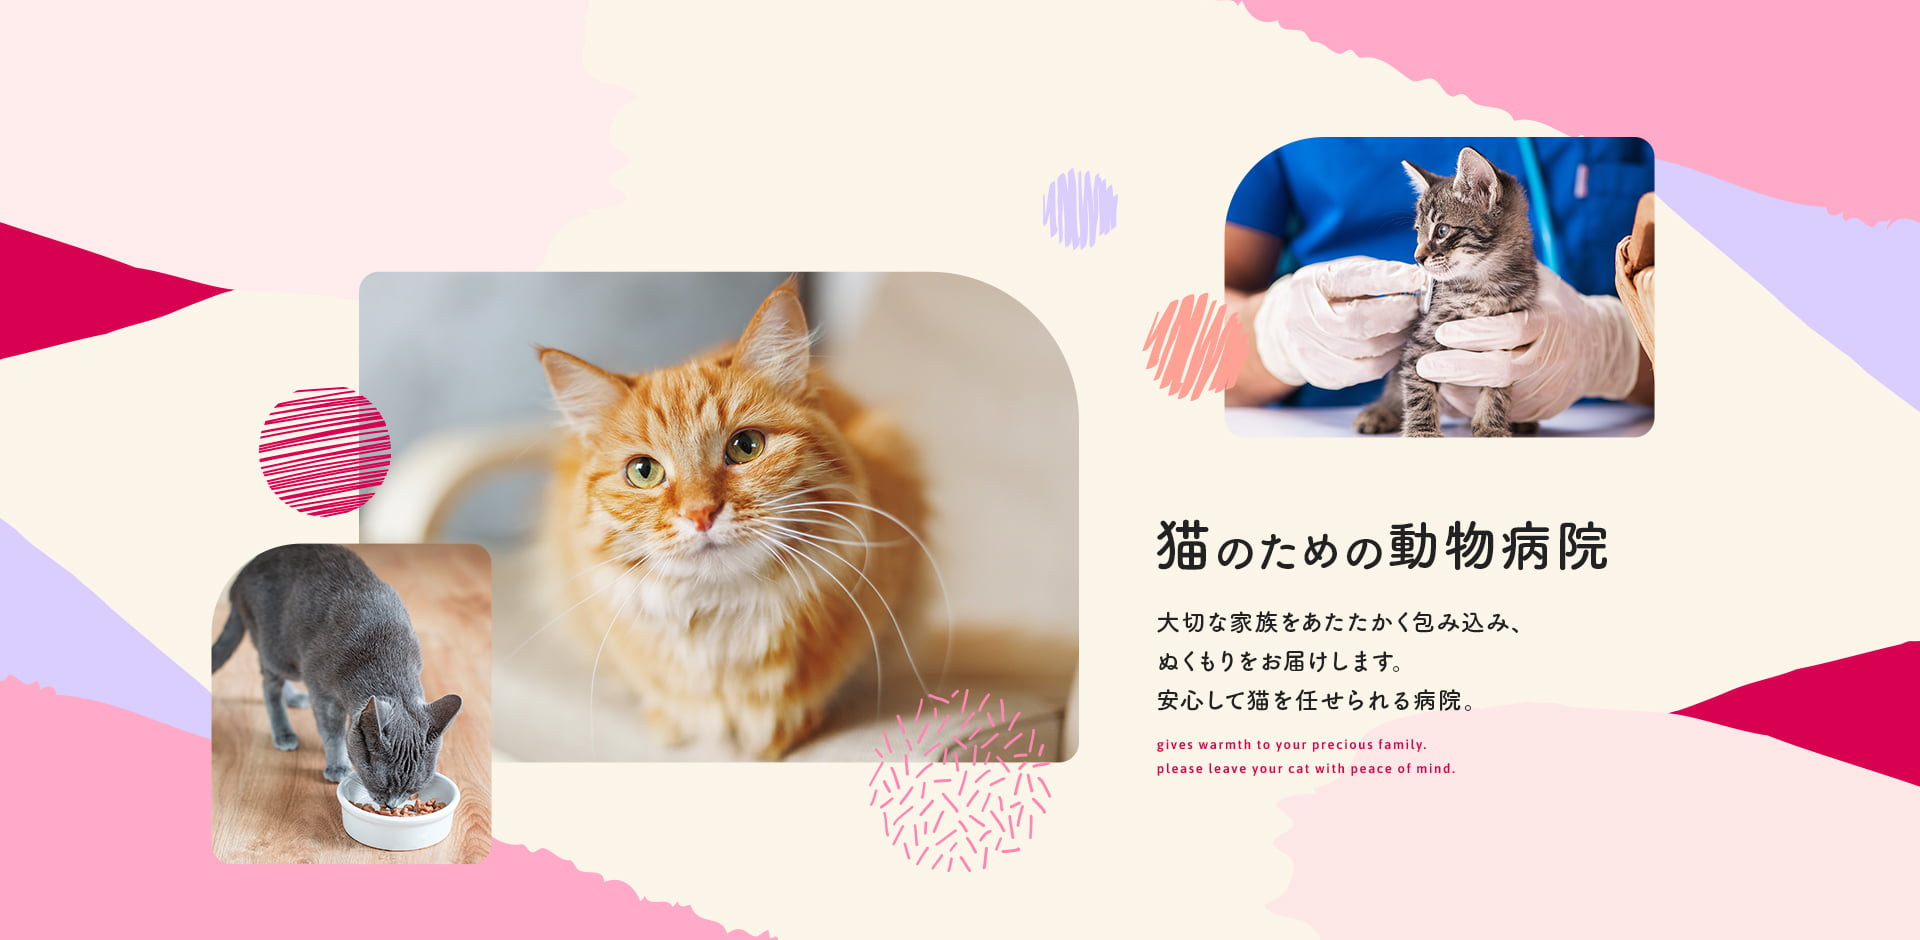
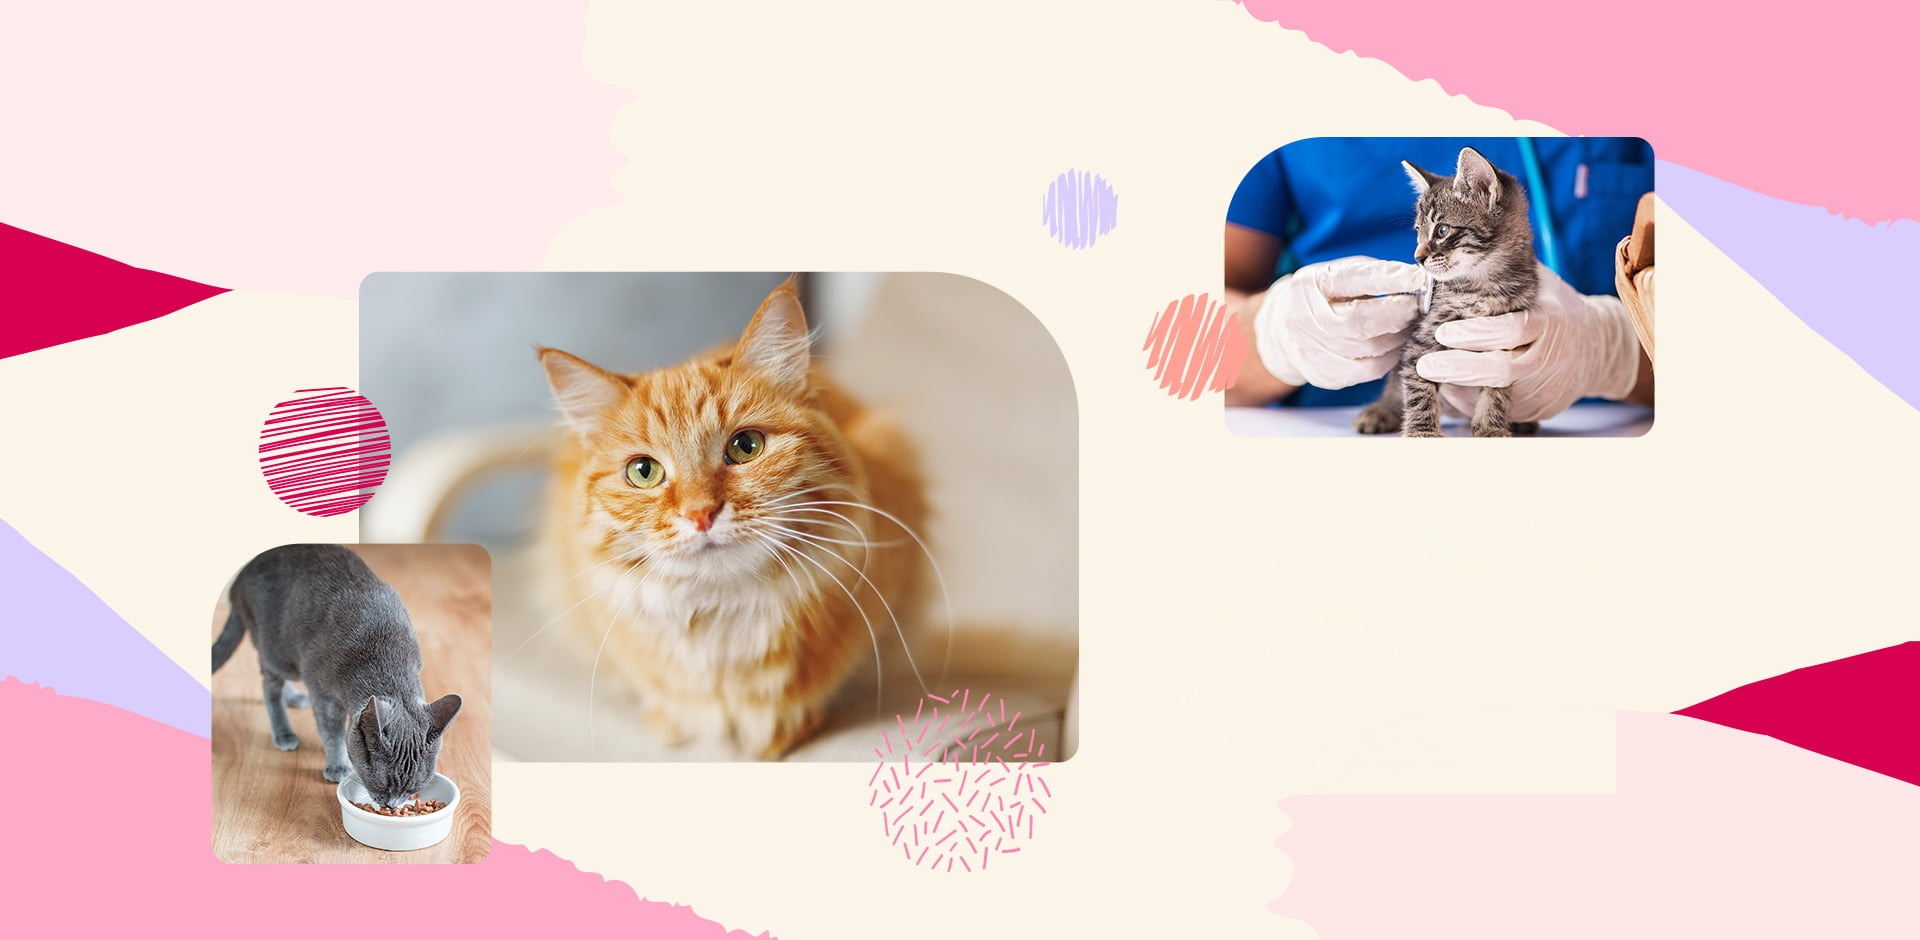
restore photo key visual with baked text removed

Changed region(s): [[0.5938, 0.6479, 0.7812, 0.833], [0.5938, 0.5553, 0.8438, 0.617], [0.125, 0.4011, 0.2188, 0.5553]]

diff --git a/index.html b/index.html
@@ -93,17 +93,11 @@
 </nav>
 
 <!-- ============================ キービジュアル ============================ -->
-<section id="hero" class="hero-key">
-  <span class="deco deco1"></span>
-  <span class="deco deco2"></span>
-  <span class="deco deco3"></span>
-  <span class="deco deco4"></span>
-  <span class="deco deco5"></span>
-  <div class="hero-inner">
-    <span class="hero-en">For a world in harmony with people and cats</span>
-    <h2 class="hero-copy">人と猫、そして自然環境とが<br>調和した世界へ。</h2>
-    <p class="hero-sub">わたしのネコのクリニックは、ネコ専門クリニックの運営とVETech事業を通じて、<br>人と猫がともに健やかに暮らせる社会を目指します。</p>
-  </div>
+<section id="hero">
+  <picture>
+    <source media="(max-width: 750px)" srcset="assets/img/hero-sp.jpg">
+    <img src="assets/img/hero.jpg" srcset="assets/img/[email redacted] 2x" alt="わたしのネコのクリニック 猫専門動物病院" width="1600" height="700" fetchpriority="high">
+  </picture>
 </section>
 
 <!-- ===================== 想い PHILOSOPHY ===================== -->